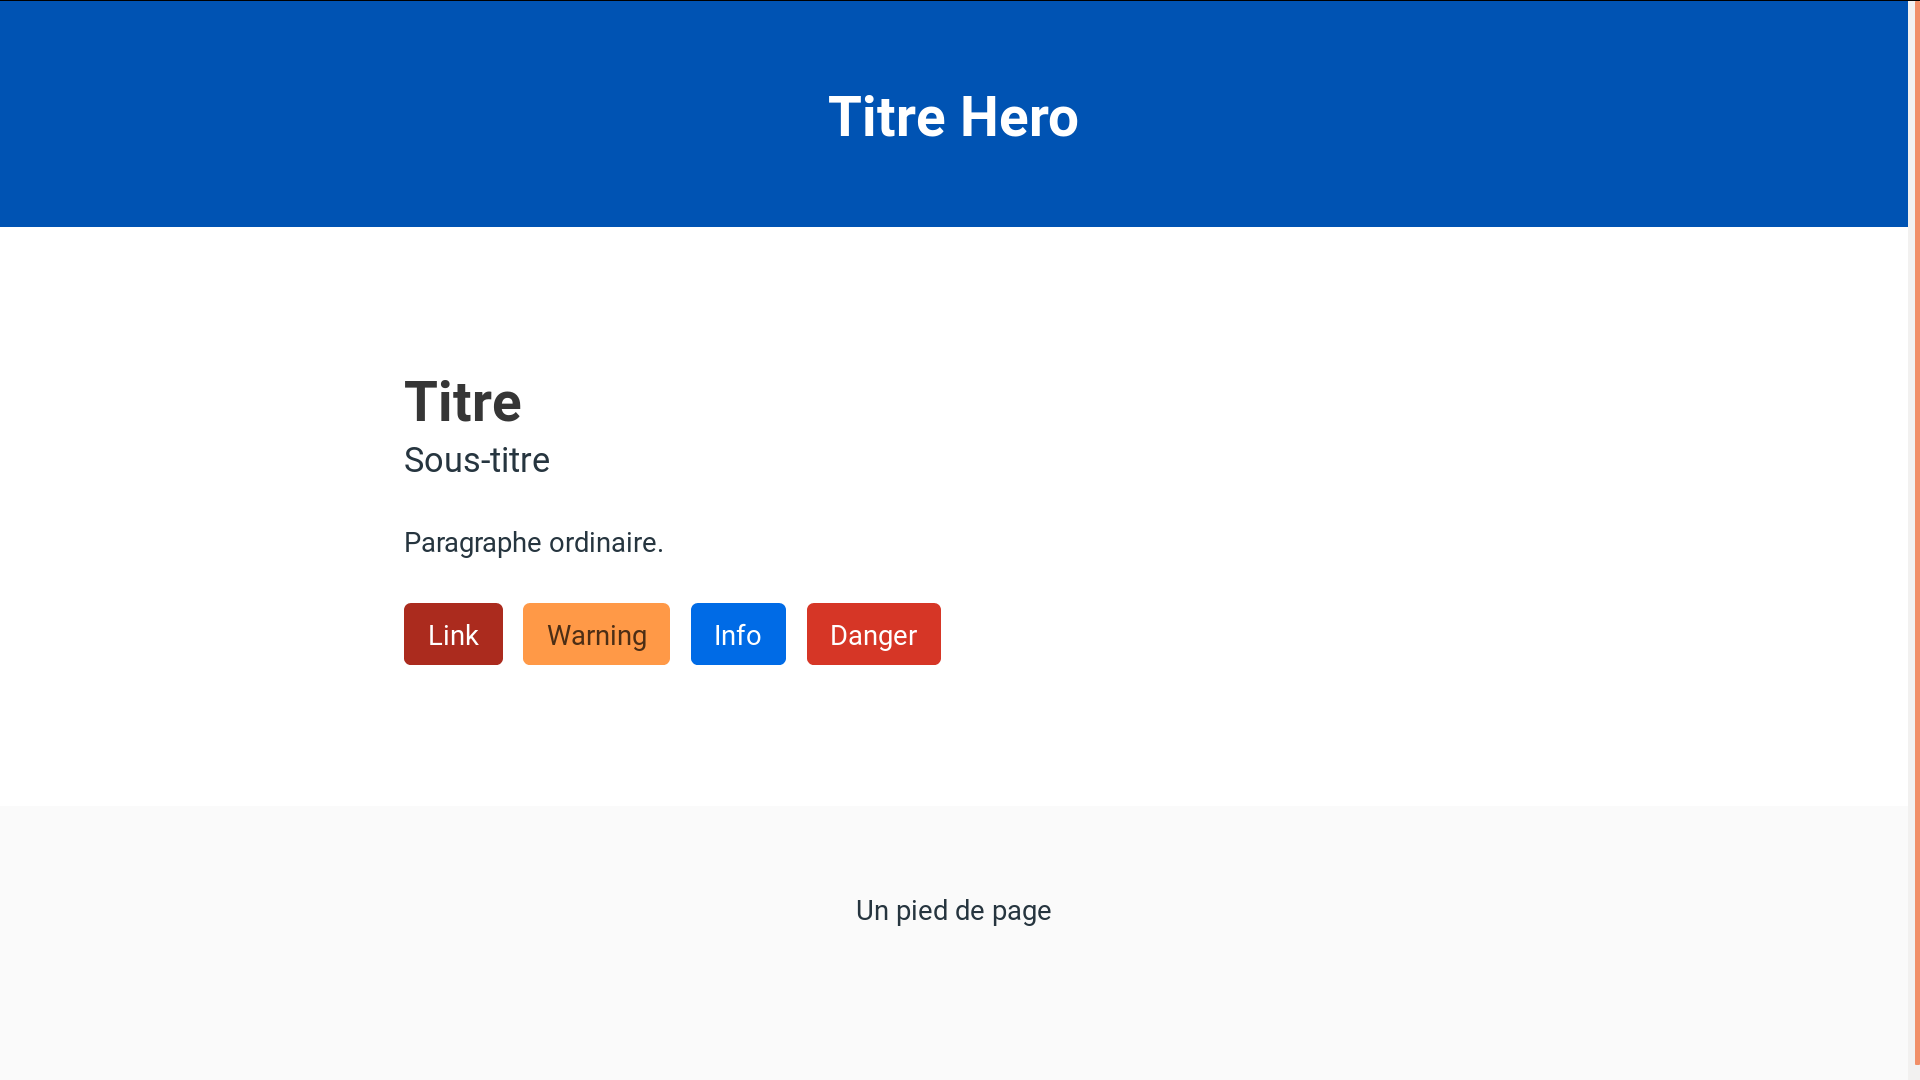
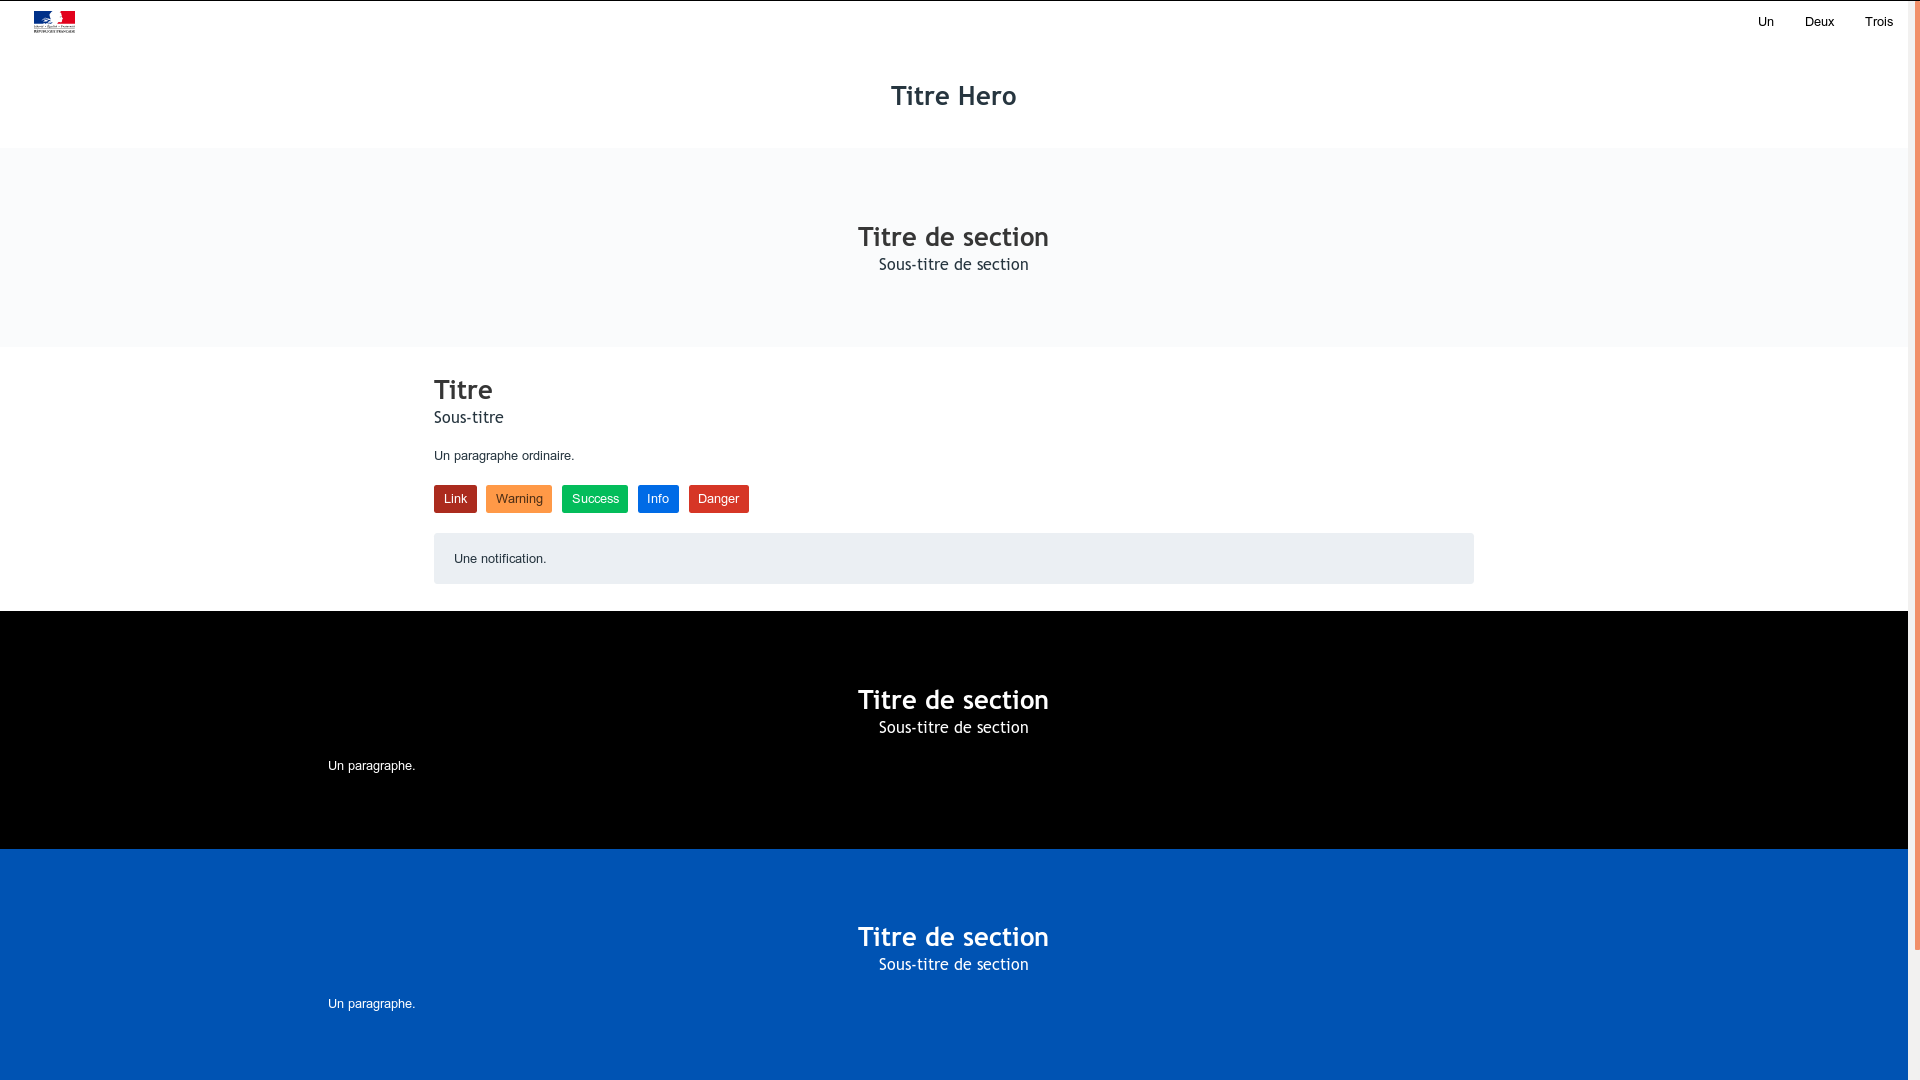
Get closer to template.data.gouv.fr

diff --git a/test.html b/test.html
@@ -1,55 +1,86 @@
 <!DOCTYPE html>
 <html lang="fr-FR">
-  <head>
-    <title>Page test</title>
-    <meta charset="utf-8">
-    <meta content="width=device-width, initial-scale=1, shrink-to-fit=yes" name="viewport">
-    <link rel="stylesheet" href="style.css">
-  </head>
-  <body>
-    <section class="hero is-primary">
-      <div class="hero-body">
-	<div class="container">
-	  <h1 class="title has-text-centered">Titre Hero</h1>
-	</div>
-      </div>
-    </section>
-    <section class="section">
-      <div class="column is-8 is-offset-2">
-	<div class="container">
-	  <div style="margin: 1.4em;">
-	    <h1 class="title">Titre</h1>
-	    <h2 class="subtitle">Sous-titre</h2>
-	    <div>
-	      <p>Paragraphe ordinaire.</p>
-	      <br/>
-	      <div class="level-left">
-		<a class="level-item button is-link" href="#">Link</a>
-		<a class="level-item button is-warning" href="#">Warning</a>
-		<a class="level-item button is-success" href="#">Success</a>
-		<a class="level-item button is-info" href="#">Info</a>
-		<a class="level-item button is-danger" href="#">Danger</a>
-	      </div>
-	      <br/>
-	      <div class="tile is-ancestor">
-		<div class="tile is-parent is-horizontal is-12">
-		  <div class="tile is-child notification">
-		    <p>Un paragraphe.</p>
-		  </div>
-		  <div class="tile is-child notification">
-		    <p>Un paragraphe.</p>
-		  </div>
-		</div>
-	      </div>
+    <head>
+	<title>Page test</title>
+	<meta charset="utf-8">
+	<meta content="width=device-width, initial-scale=1, shrink-to-fit=yes" name="viewport">
+	<link rel="stylesheet" href="style.css">
+    </head>
+    <body>
+	<nav class="navbar" role="navigation" aria-label="main navigation">
+	    <div class="navbar-brand">
+		<a class="navbar-item" href="#">
+		    <img src="https://template.data.gouv.fr/images/logo-marianne.svg" width="112" height="28" />
+		</a>
 	    </div>
-	  </div>
+	    <div class="navbar-menu">
+		<div class="navbar-end">
+		    <a href="#" class="navbar-item">Un</a>
+		    <a href="#" class="navbar-item">Deux</a>
+		    <a href="#" class="navbar-item">Trois</a>
+		</div>
+	    </div>
+	</nav>
+	<section class="hero is-primary">
+	    <div class="hero-body">
+		<div class="container">
+		    <h1 class="title has-text-centered">Titre Hero</h1>
+		</div>
+	    </div>
+	</section>
+	<section class="section section-grey">
+	    <div class="column is-8 is-offset-2">
+		<h2 class="title has-text-centered">Titre de section</h2>
+		<h3 class="subtitle has-text-centered">Sous-titre de section</h3>
+	    </div>
+	</section>
+	<section>
+	    <div class="column is-8 is-offset-2">
+		<div class="container">
+		    <div style="margin: 1.4em;">
+			<h1 class="title">Titre</h1>
+			<h2 class="subtitle">Sous-titre</h2>
+			<div>
+			    <p>Un paragraphe ordinaire.</p>
+			    <br/>
+			    <div class="level-left">
+				<a class="level-item button is-link" href="#">Link</a>
+				<a class="level-item button is-warning" href="#">Warning</a>
+				<a class="level-item button is-success" href="#">Success</a>
+				<a class="level-item button is-info" href="#">Info</a>
+				<a class="level-item button is-danger" href="#">Danger</a>
+			    </div>
+			    <br/>
+			    <div class="tile is-ancestor">
+				<div class="tile is-parent is-horizontal is-12">
+				    <div class="tile is-child notification">
+					<p>Une notification.</p>
+				    </div>
+				</div>
+			    </div>
+			</div>
+		    </div>
+		</div>
+	    </div>
+	</section>
+	<section class="section section-dark">
+	    <div class="column is-8 is-offset-2">
+		<h2 class="title has-text-centered">Titre de section</h2>
+		<h3 class="subtitle has-text-centered">Sous-titre de section</h3>
+		<p>Un paragraphe.</p>
+	    </div>
+	</section>
+	<section class="section section-color">
+	    <div class="column is-8 is-offset-2">
+		<h2 class="title has-text-centered">Titre de section</h2>
+		<h3 class="subtitle has-text-centered">Sous-titre de section</h3>
+		<p>Un paragraphe.</p>
+	    </div>
+	</section>
+    </body>
+    <footer class="footer">
+	<div class="content has-text-centered">
+	    <p>Un pied de page</p>
 	</div>
-      </div>
-    </section>
-  </body>
-  <footer class="footer">
-    <div class="content has-text-centered">
-      <p>Un pied de page</p>
-    </div>
-  </footer>
+    </footer>
 </html>

diff --git a/style.scss b/style.scss
@@ -38,7 +38,7 @@ $warning: $orange;
 $danger: $red;
 $dark: $black;
 $text: $darkest-grey;
-       
+
 // $widescreen-enabled: false;
 // $fullhd-enabled: false;
 
@@ -68,22 +68,67 @@ body {
     -moz-osx-font-smoothing: grayscale;
 }
 
-h1,
-h2,
-h3,
-h4,
-h5,
+h1, h2, h3, h4, h5, h6 {
+    margin-top: 0;
+    font-family: "Evolventa", "Trebuchet MS", sans-serif;
+}
+
+h1 {
+    font-size: 2em;
+    line-height: 1.125em;
+}
+h2 {
+    font-size: 1.75em;
+    line-height: 1.25em;
+}
+h3 {
+    font-size: 1.5em;
+    line-height: 1.5em;
+}
+h4 {
+    font-size: 1.25em;
+}
+h5 {
+    font-size: 1.125em;
+}
 h6 {
-  margin-top: 0;
-  font-family: "Evolventa", "Trebuchet MS", sans-serif;
+    font-size: 1em;
+    
 }
 
 .hero-body {
+    background-color: white;
+}
+
+.section {
+    padding: 5em 0;
+    box-sizing: border-box;
+}
+
+.section-grey {
     background-color: $lightest-grey;
 }
 
-.hero.is-primary .title {
-    color: $darkest-grey;
+.section-dark {
+    background-color: black;
+    color: white;
+}
+
+.section-dark * {
+    color: white;
+}
+
+.section-color {
+    background-color: $primary;
+    color: white;
+}
+
+.section-color * {
+    color: white;
+}
+
+.hero.is-primary .title { 
+    color: $darkest-grey; 
 }
 
 .footer {
@@ -91,25 +136,34 @@ h6 {
     color: white;
 }
 
-.h1 {
-    font-size: 2em;
-    line-height: 1.125em;
+.button {
+    border-radius: 3px;
+    border: 0px;
 }
 
-.card { 
+.card {
     border-radius: 2px;
     border: 1px solid var($light-grey);
 }
 
-a,
-button {
-  cursor: pointer;
+a, button {
+    cursor: pointer;
 }
 
-a,
-a:hover,
-a:focus,
-a:visited,
-a:active {
-  color: $primary;
+a, a:hover, a:focus, a:visited, a:active {
+    color: $primary;
 }
+
+.navbar-end a.navbar-item {
+    text-decoration: none;
+    color: black;
+    border-radius: 3px;
+    padding: 0.4em 0.8em;
+    margin: 0.2em 0.4em;
+}
+
+.navbar-end a.navbar-item:hover {
+    background-color: $lighter-grey;
+    color: black;
+}
+
